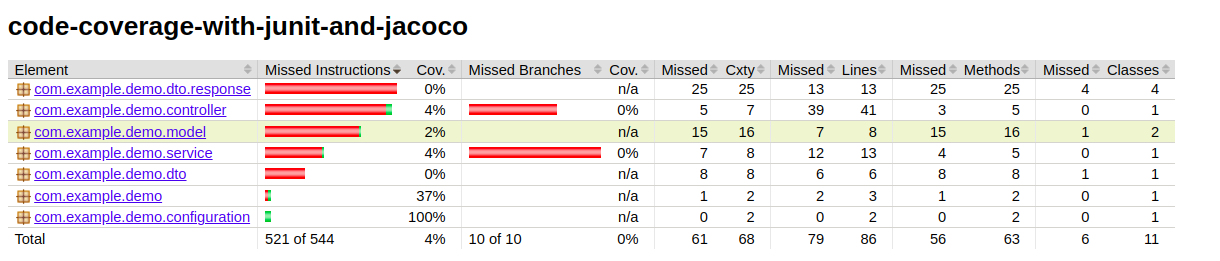
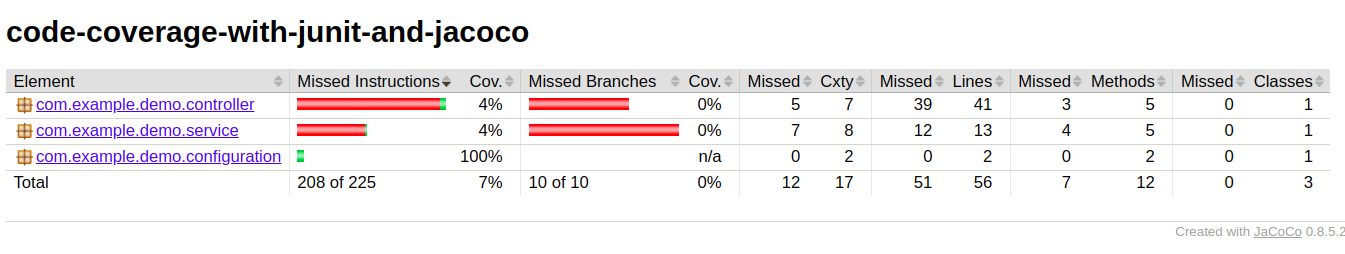
README file and screenshots were updated

diff --git a/README.md b/README.md
@@ -9,40 +9,72 @@ Measuring code coverage with the Java Code Coverage Library (JaCoCo).
 
 ```
 
-        <plugin>
-            <groupId>org.jacoco</groupId>
-            <artifactId>jacoco-maven-plugin</artifactId>
-            <version>0.8.5</version>
-            <executions>
-                <execution>
-                    <goals>
-                        <goal>prepare-agent</goal>
-                    </goals>
-                </execution>
-                <!-- attached to Maven test phase -->
-                <execution>
-                    <id>report</id>
-                    <phase>test</phase>
-                    <goals>
-                        <goal>report</goal>
-                    </goals>
-                </execution>
-            </executions>
-        </plugin>
+    <plugin>
+        <groupId>org.jacoco</groupId>
+        <artifactId>jacoco-maven-plugin</artifactId>
+        <version>0.8.5</version>
+        <configuration>
+            <excludes>
+                <exclude>com/example/demo/CodeCoverageWith*</exclude>
+                <exclude>com/example/demo/dto/*</exclude>
+                <exclude>com/example/demo/dto/response/*</exclude>
+                <exclude>com/example/demo/model/*</exclude>
+                <exclude>com/example/demo/repository/*</exclude>
+            </excludes>
+        </configuration>
+        <executions>
+            <execution>
+                <goals>
+                    <goal>prepare-agent</goal>
+                </goals>
+            </execution>
+            <!-- attached to Maven test phase -->
+            <execution>
+                <id>report</id>
+                <phase>test</phase>
+                <goals>
+                    <goal>report</goal>
+                </goals>
+                <configuration>
+                    <outputDirectory>target/jacoco-report</outputDirectory>
+                </configuration>
+            </execution>
+        </executions>
+    </plugin>
 
+```
+
+**Some packages were exluded from JaCoCo:**
+
+```
+    <excludes>
+        <exclude>com/example/demo/CodeCoverageWith*</exclude>
+        <exclude>com/example/demo/dto/*</exclude>
+        <exclude>com/example/demo/dto/response/*</exclude>
+        <exclude>com/example/demo/model/*</exclude>
+        <exclude>com/example/demo/repository/*</exclude>
+    </excludes>
+```
+
+**Location where the report will be generated:**
+
+```
+    <configuration>
+        <outputDirectory>target/jacoco-report</outputDirectory>
+    </configuration>
 ```
 
 --------------------------------------------------------------------------
 
-After JaCoco plugin is added, the test maven phase is executed.
+**After JaCoco plugin is added, the test maven phase is executed:**
 
 ![TestPhase](./screenshots/maven_test_phase.png)
 
-A report is generated in the directory target/site/jacoco.
+**A report is generated in the directory target/jacoco-report:**
 
 ![](./screenshots/jacoco_report_directory.png)
 
-Right now, there are no tests available as you can see in the generated report:
+**Right now, there are no tests available as you can see in the generated report:**
 
 ![Report1](./screenshots/jacoco_report_1.png)
 
